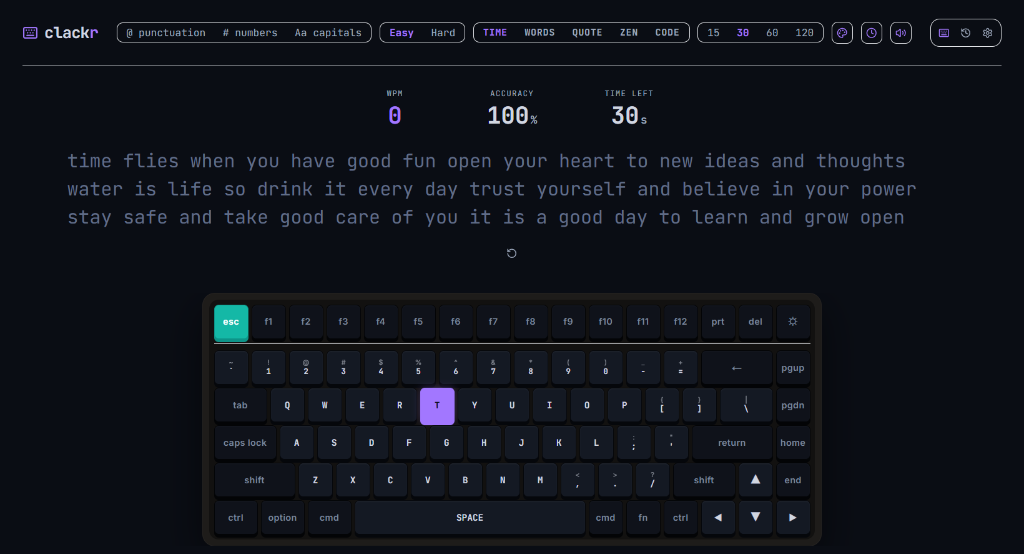
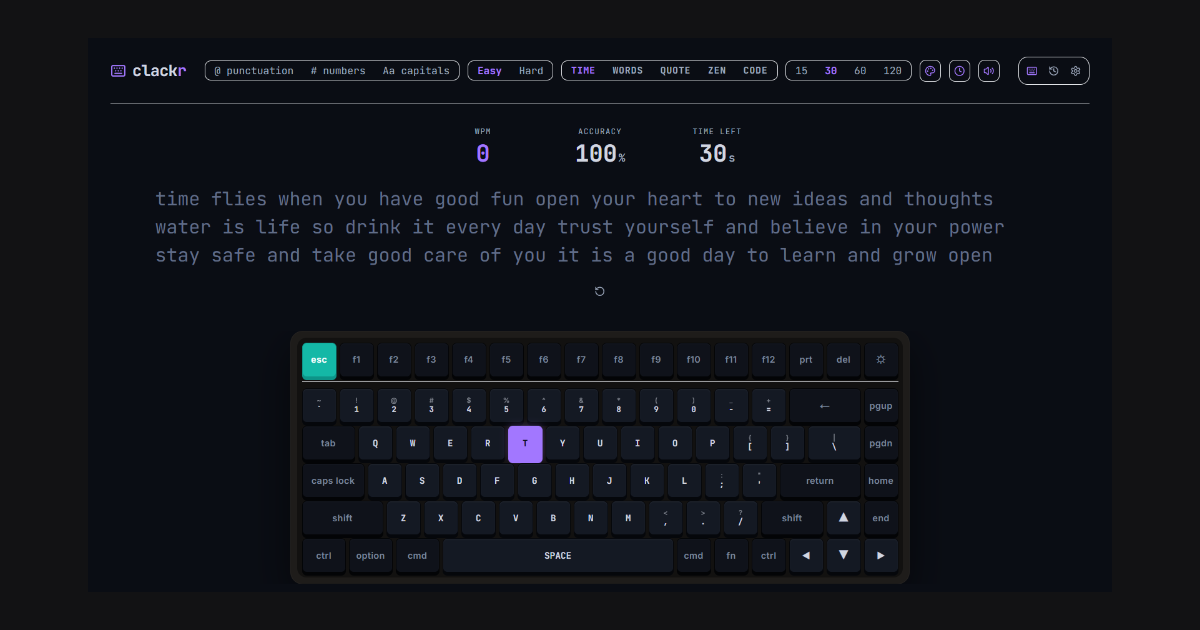
Resize og.png to standard Twitter 1200x630 dimensions

diff --git a/src/components/ResultsPanel/ShareModal.tsx b/src/components/ResultsPanel/ShareModal.tsx
@@ -235,25 +235,13 @@ export default function ShareModal({
     toast.success("Results score card downloaded!");
   };
 
-  const handlePost = async () => {
+  const handlePost = () => {
     const testDurationText = mode === "time" ? `${duration} sec` : `${timeTaken.toFixed(0)}s`;
     const text = `Just hit ${finalWpm} WPM with ${accuracy}% accuracy in a ${testDurationText} test.\n\nThink you can beat me? Try clackr, a minimal distraction-free typing test.\n\nhttps://clackr-plum.vercel.app/`;
 
-    try {
-      const response = await fetch("/og.png");
-      const blob = await response.blob();
-      if (navigator.clipboard && window.ClipboardItem) {
-        await navigator.clipboard.write([
-          new ClipboardItem({ "image/png": blob }),
-        ]);
-        toast.success("Opening X (Twitter)! Press Ctrl+V in draft box if you want to attach image.");
-      }
-    } catch (err) {
-      toast.success("Opening X (Twitter) to post!");
-    }
-
     const twitterUrl = `https://x.com/intent/post?text=${encodeURIComponent(text)}`;
     window.open(twitterUrl, "_blank", "noopener,noreferrer");
+    toast.success("Opening X (Twitter) to post!");
   };
 
   return (
